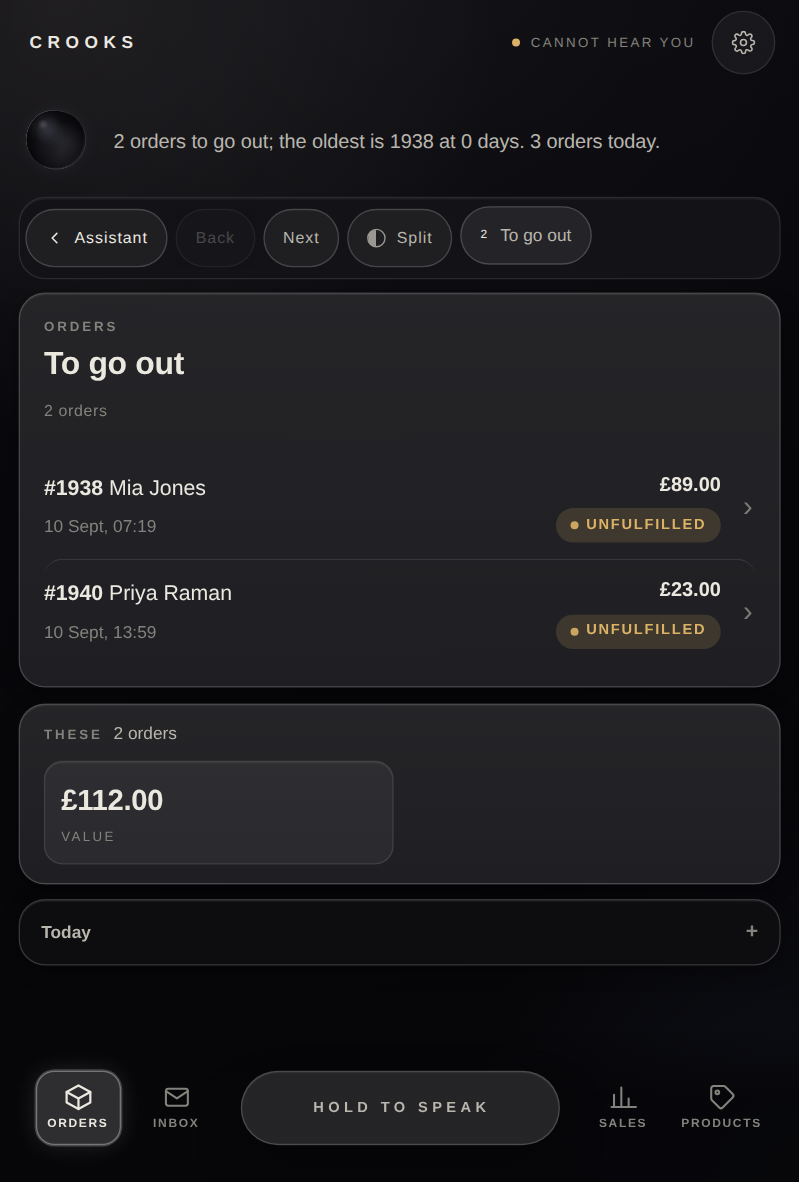
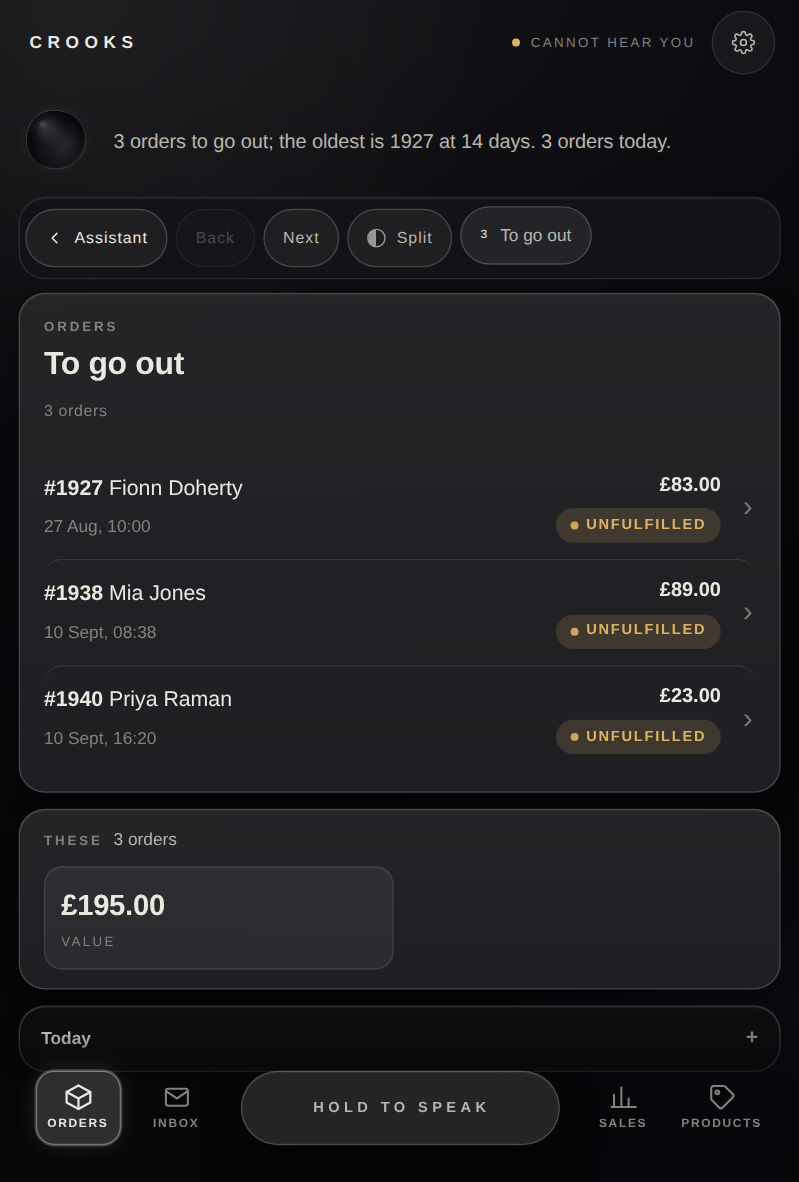
Thirteen screenshots of the build we are actually shipping
The six in the report were shot before four merges landed, and the Orders
landing genuinely differs now: the golden world holds an order that has been
waiting fourteen days, so #1927 is what the card leads with. A screenshot of a
build nobody is shipping is worse than none.

Retaken at both sizes — seven at 800 x 1280, six at the Samsung's own 601 x 889
and DPR 1.33 — with zero check failures. The tablet set shows the dock reachable
and unoverlaid, Split in the rail, and today's orders FOLDED behind their title,
which is the density work from section 22 visible on glass rather than asserted
in a test.

And the brief's five closing questions are answered directly: which live
failures are now impossible and which remain possible (with the four that
remain named), which capability requests still cannot be performed and why
(fourteen rows, including the three that are impossible rather than unbuilt),
which of the six ungranted scopes unlock what, and whether anything weakened the
mutation model.

Nothing did. Three things strengthened it, and the one risk worth watching is
written as a risk: the composer is the first card with editable fields, and
though the tablet is still not the data authority, it deserves the Samsung test
before it is trusted with a real recipient.

Claude-Session: https://claude.ai/code/session_01LW56zfa1u8aE988nwMRxfu

diff --git a/crooks-assistant/PHASE_3_ULTRACODE_REPORT.md b/crooks-assistant/PHASE_3_ULTRACODE_REPORT.md
@@ -447,6 +447,15 @@ Taken by the tablet gate against the fixture world, at the Samsung's own viewpor
 | `tab-05-reloaded.png` | after a reload: the workspace comes back |
 | `tab-06-armed-reply.png` | the armed pill on the card — "Replying to Mia", unclipped, 44 px Cancel |
 
+And seven at 800 × 1280, the size the interaction language was designed against, so a change
+that reads well on one and badly on the other is visible: `01-home`, `02-order-detail`,
+`03-order-list`, `04-capabilities`, `05-list-walk`, `06-armed`, `07-email-thread`.
+
+**All thirteen were retaken against the merged build**, not the build they were first shot
+from — four merges landed between, and the Orders landing genuinely differs now that the
+golden world holds an order that has been waiting fourteen days. A screenshot of a build
+nobody is shipping is worse than none.
+
 The header in these reads "cannot hear you" because this machine has no whisper server and no
 ElevenLabs key; that is the environment, not the build.
 
@@ -769,3 +778,107 @@ open "/Applications/CROOKS Control.app"
 The menu bar should then read **CROOKS — Read only**, which is correct while
 `CROOKS_WRITES_ENABLED` is false. If it cannot find the project, click *Project folder…* and
 choose the directory holding `scripts/control.py`.
+
+---
+
+## 15. The brief's closing questions, answered directly
+
+### 15.1 Which Phase 2 live failures are now impossible by regression test, and which remain possible?
+
+**Impossible** — each held by a test that fails if the behaviour returns:
+
+| The live failure | What makes it impossible |
+| --- | --- |
+| Two fingers on the orb produced a blank speech turn, six times | `scripts/browser/tablet.js` — a CDP two-finger spread asserts **zero** `/turn` posts and no hearing error |
+| Split depended on a secret gesture | The same gate asserts a visible `Split` control reaching the same backend command |
+| Tapping the other half changed who was listening, not what was on screen | `tests/test_split_workspaces.py` + a browser check that switching halves changes the visible cards |
+| A half finished a slow turn with nothing on the tablet | `branch.ready(...)`, asserted in `tests/test_split_workspaces.py` |
+| The dock was decorative unless already in an interaction | Four landing scenarios, each tapped from an idle tablet, no model |
+| `commerce_query` failed three times with "sort by :" | The six reconstructed live attempts, each parsing or carrying a `schema_help` whose offered example is itself parsed |
+| An email thread showed no linked order | `tests/test_graph.py` + the graph pack, and the thread says *why* it belongs |
+| An automated carrier report was offered as a customer awaiting reply | The noise filter, now actually bound to our own address in production |
+| The armed state was clipped 788 px below the finger | The tablet gate asserts it unclipped, on the card, with a 44 px Cancel |
+| A failed customer read was drawn as "no customer" | `tests/web/ui.test.js` + `tests/test_context.py` |
+| Six gesture collisions classified as `STT_ERROR` | `tests/test_analyser.py::test_a_a_gesture_that_ended_the_recording_is_not_a_failure_of_speech` |
+| "Potential new actions: none" while three were asked for aloud | Two analyser tests, driven from the capability table |
+| "Refund status" read as a requested mutation | `tests/test_analyser.py::test_d_a_noun_or_a_state_is_not_a_requested_mutation` |
+| 27 command events unread by the report | `tests/test_analyser.py::test_e_the_report_reads_the_command_and_navigation_events` |
+| The 35-second compound turn | One turn now (§11.5), asserted by `compound()` in three scenarios |
+
+**Still possible, and honestly so:**
+
+1. **A slow model turn.** Anticipation removes *reads* from the critical path; `prose_wait_ms`
+   was unchanged in the bench, and §25 names prose as the number to attack. A NORMAL-lane
+   question still waits on Claude. What changed is how many questions reach that lane.
+2. **A mis-heard address that looks plausible.** The composer marks a dictated value
+   `uncertain` and refuses to stage it, so it cannot be sent unseen — but only the owner can
+   tell a wrong-but-valid address from a right one.
+3. **Anything requiring a scope the store has not granted.** Order editing needs
+   `write_order_edits` and will say so rather than work.
+4. **A tablet-side failure no browser can reproduce** — a real thumb, a real microphone, real
+   Tailscale. §8 lists what to test on the glass, in order.
+
+### 15.2 Which capability requests still cannot be performed, and why?
+
+| Asked for | State | Why |
+| --- | --- | --- |
+| Add an item to an order | **Built, needs a scope** | `write_order_edits` is not granted. The family says so and withholds its tool from the model |
+| Create a discount code | **Built** | Reachable by voice (§11.3 fix) and by the model; needs `write_discounts` + `read_discounts` |
+| Create an order | **Built** | Voice-initiated as §11 asks; needs `write_draft_orders` + `read_draft_orders` |
+| Store credit | **Built, conditional** | Needs the grant AND the store to have store credit — a per-store Shopify setting. The probe now asks a real question rather than reporting READY-unproven |
+| Abandoned **checkouts** | **Built** | Reads, ranks by occurrence, windows by date. No new scope |
+| Abandoned **carts** | **Impossible** | Shopify's Admin API has no cart resource. Said in the tool description, the result, both cards, every spoken line and the family's `what`, from one constant so the five cannot drift |
+| Delivery status ("has it arrived?") | **Impossible today** | No carrier is integrated. DISCONNECTED, and the model is told not to attempt it |
+| Shipping labels / tracking from a provider | **Adapter only** | Easyship is not integrated and there is no credential. Fixture implementation, DISCONNECTED state, and a test that nothing can report "checked Easyship" unless it did |
+| Returns, exchanges, replacements, resends | **Contracts only** | Four scopes ungranted and the mutations deliberately unwritten. A test fails if any such mutation is ever registered |
+| Store credit **removal** | **Not built** | `storeCreditAccountDebit` is not a reviewed mutation, so a credit cannot be taken back from here. The card says so |
+| Editing or deactivating an existing discount | **Not built** | The card says so |
+| A new customer during order creation | **Not built** | An unknown or ambiguous name is refused with "make the customer in Admin first" |
+| "Send it instead" spoken | **Touch path only** | The fast lane cannot stage, by construction. Spoken, it draws the composer with **Send** on it; the gesture stages |
+| A tablet button for "New order" / "New discount code" | **Not built** | Both are reachable by voice and by the model; there is no tap route yet |
+
+### 15.3 Which need new Shopify permissions?
+
+Six scopes are named by this build and **not granted**. `SHOPIFY_SCOPES.md` carries the table;
+in priority order:
+
+| Scope | Unlocks | Without it |
+| --- | --- | --- |
+| `write_order_edits` | Adding an item to an order | MISSING_SCOPE, named, tool withheld |
+| `write_discounts` + `read_discounts` | Discount codes. Both: a family that cannot say whether a code is taken is not ready | MISSING_SCOPE, and the collision read still works on `read_discounts` alone |
+| `write_draft_orders` + `read_draft_orders` | Order creation. Both: a change that cannot be verified is not offered | MISSING_SCOPE, nothing drafted |
+| `write_store_credit_account_transactions` + `read_store_credit_accounts` | Store credit | MISSING_SCOPE, or NOT_SUPPORTED_BY_STORE if the grants are there and the store is not |
+| `write_returns`, `read_returns`, `write_merchant_managed_fulfillment_orders` | Returns and resends — **not needed yet**, since the mutations are deliberately unwritten | NOT_IMPLEMENTED, scope named |
+
+Not a scope: `CROOKS_EASYSHIP_TOKEN`, and an Easyship HTTP client that this build does not
+contain.
+
+### 15.4 Does any feature weaken the mutation security model?
+
+**No, and three of the changes strengthen it.** Four new write operations were added
+(`order_edit_add_line`, `discount_code_create`, `draft_order_complete`,
+`store_credit_credit`), all through the action engine that already existed — the model or a
+touch command proposes, the Mac stores the exact immutable arguments, the tablet posts
+identity only, the precondition is re-read immediately before the write, success means
+VERIFIED by authoritative re-read, and an unknown write fails closed.
+
+The three that strengthen it:
+
+1. **Per-branch proposal attribution.** `session.acting_branch` was one field for both halves.
+   With two halves thinking at once the engine could have stamped the left half's proposal
+   with the right half's id. The branch now travels on the task the tool call runs in.
+2. **The gate's id rule made the arbitrary recipient safe for free.** A write needs at least
+   one issued id and an email address can never be one, so `to` is admitted only beside a
+   `compose_id` the Mac minted — an arbitrary address can only be staged from a composer whose
+   card the owner has already read.
+3. **Tools are withheld by capability state.** A family that is DISCONNECTED,
+   NOT_IMPLEMENTED or NOT_SUPPORTED_BY_STORE has *no tools offered to the model*, and
+   MISSING_SCOPE or READ_ONLY withholds the write tools. The model cannot attempt what the
+   store would refuse.
+
+One thing to watch, stated as a risk rather than a defect: the composer is the first card with
+**editable fields**. A keystroke posts a field *name* and a value into the Mac's own copy, and
+the execution arguments are still built from that copy on the Mac when a gesture asks for
+them — so the tablet is not the data authority. But it is the largest surface the tablet has
+ever had for putting text into something that will later be staged, and it deserves the
+Samsung test in §8 before it is trusted with a real recipient.
